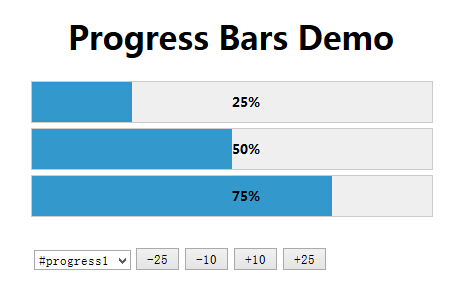
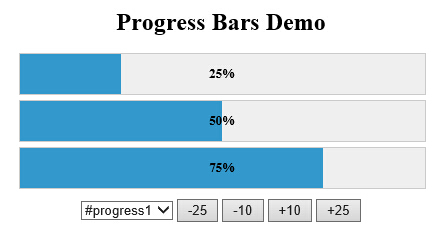
Improve user experiece

Changed region(s): [[0.0291, 0.0586, 0.9619, 0.7908], [0.0583, 0.8201, 0.8161, 0.9372]]

diff --git a/ProgressBarDemo.html b/ProgressBarDemo.html
@@ -2,56 +2,42 @@
 <html>
 	<head>
 		<meta charset="utf-8">
+		<meta name="viewport" content="width=device-width, initial-scale=1.0, minimum-scale=0.5, maximum-scale=2.0, user-scalable=yes" />
 		<title>ProgressBarDemo</title>
-		
+		<link type="text/css" rel="stylesheet" href="css/style.css"/>				
+		<!--[if IE]>
 		<style type="text/css">
-			.content{
-				margin:0 auto; 
-				width:400px; 
-				text-align:center
+			.bar .pbTxt{				
+				width:100%;
 			}
-			
-			.bar{
-				 position:relative;
-				 width:400px;
-				 height:40px;
-				 background-color:#F0EFEF;
-				 border:1px solid #cccccc;
-				 padding:0px;
-				 font-size:13px;
-				 font-weight:700;	
-				 margin:5px 0;	
-			 }
-			 
-			.bar .blue,.red{
-				 position:relative;
-				 height:40px;
-				 text-align:center;
-				 color:#ffffff;
-				 line-height:30px;
-				 font-family:Arial;
-				 display:block;
-			}
-			
-			.bar .pbTxt{
-				float:left;
-				line-height:40px; 
-				position:absolute; 
-				z-index:1000
-			}
-			
-			.bar .blue{background-color:#3399CC;}
-			
-			.bar .red{background-color:red;}
 		</style>
-		
-		<script type="text/javascript" src="js/json2.js"></script>
+		<![endif]-->
+	</head>
+	<body>
+		<div class="content">
+			<h1>Progress Bars Demo</h1>				
+			<div id="bars">
+				<div class="bar"><span id="txt0" class="pbTxt">25%</span><span id="pb0" class="blue" style="width:25%"></span></div>
+				<div class="bar"><span id="txt1" class="pbTxt">50%</span><span id="pb1" class="blue" style="width:50%"></span></div>
+				<div class="bar"><span id="txt2" class="pbTxt">75%</span><span id="pb2" class="blue" style="width:75%"></span></div>
+			</div>			
+			<div class="cmd">
+				<select id="selectedBar">
+					<option name="pb1" value="0">#progress1</option>
+					<option name="pb2" value="1">#progress2</option>
+					<option name="pb3" value="2">#progress3</option>
+				</select>
+				<input type="button" id="minus25" value="-25" />
+				<input type="button" id="minus10" value="-10" />
+				<input type="button" id="plus10" value="+10" />
+				<input type="button" id="plus25" value="+25" />
+			</div>			
+		</div>
 		<script type="text/javascript" src="js/jquery-min.js"></script>
 		<script type="text/javascript" src="js/underscore-min.js"></script>
-		<script type="text/javascript" src="js/backbone-min.js"></script>
-		
+		<script type="text/javascript" src="js/backbone-min.js"></script>		
 		<script type="text/javascript">
-			$(function() {
+			$(function(){
 				// Create Model  
                 var Bar = Backbone.Model.extend({
                         defaults: {
@@ -125,8 +111,7 @@
 					selectBar : function(){
 						var selectedPB = $("#selectedBar").val();
 						barIndex = selectedPB;
-					}
-						
+					}						
                 });
                
 				//instantiate
@@ -140,42 +125,7 @@
 				var app = new View({
 					collection : bars
 				});
-			});
-			
+			});			
 		</script>
-	</head>
-	<body>
-		<div class="content">
-			<h1>Progress Bars Demo</h1>				
-			<div id="bars">
-				<div class="bar"><span id="txt0" class="pbTxt">25%</span><span id="pb0" class="blue" style="width:25%"></span></div>
-				<div class="bar"><span id="txt1" class="pbTxt">50%</span><span id="pb1" class="blue" style="width:50%"></span></div>
-				<div class="bar"><span id="txt2" class="pbTxt">75%</span><span id="pb2" class="blue" style="width:75%"></span></div>
-			</div>
-			<br>
-			<table>
-				<tr>
-					<td>
-						<select id="selectedBar">
-							<option name="pb1" value="0">#progress1</option>
-							<option name="pb2" value="1">#progress2</option>
-							<option name="pb3" value="2">#progress3</option>
-						</select>
-					</td>
-					<td>
-						<input type="button" id="minus25" value="-25" />
-					</td>
-					<td>
-						<input type="button" id="minus10" value="-10" />
-					</td>
-					<td>
-						<input type="button" id="plus10" value="+10" />
-					</td>
-					<td>
-						<input type="button" id="plus25" value="+25" />
-					</td>
-				</tr>
-			<table>
-		</div>
-	</body>
+	</body>	
 </html>

diff --git a/css/style.css b/css/style.css
@@ -1,0 +1,40 @@
+.content{
+	margin:0 auto; 
+	width:30%; 	
+	text-align:center
+}
+h1 { font-size: 1.5em; } 
+.bar{
+	 position:relative;
+	 width:100%;
+	 height:40px;
+	 background-color:#F0EFEF;
+	 border:1px solid #cccccc;
+	 padding:0px;
+	 font-size:0.8em;
+	 font-weight:700;	
+	 margin:5px 0;	
+ } 
+.bar .blue,.red{
+	 position:relative;
+	 height:40px;
+	 text-align:center;
+	 color:#ffffff;
+	 line-height:40px;
+	 font-family:Arial;
+	 display:block;
+}
+.bar .pbTxt{
+	float:left;
+	line-height:40px; 	
+	position:absolute; 
+	z-index:1000	
+}
+@media screen and (min-width:0\0) {
+    .bar .pbTxt{
+	width:100%
+	}
+}
+.bar .blue{background-color:#3399CC; }
+.bar .red{background-color:red;}
+.cmd{margin-top:10px}
